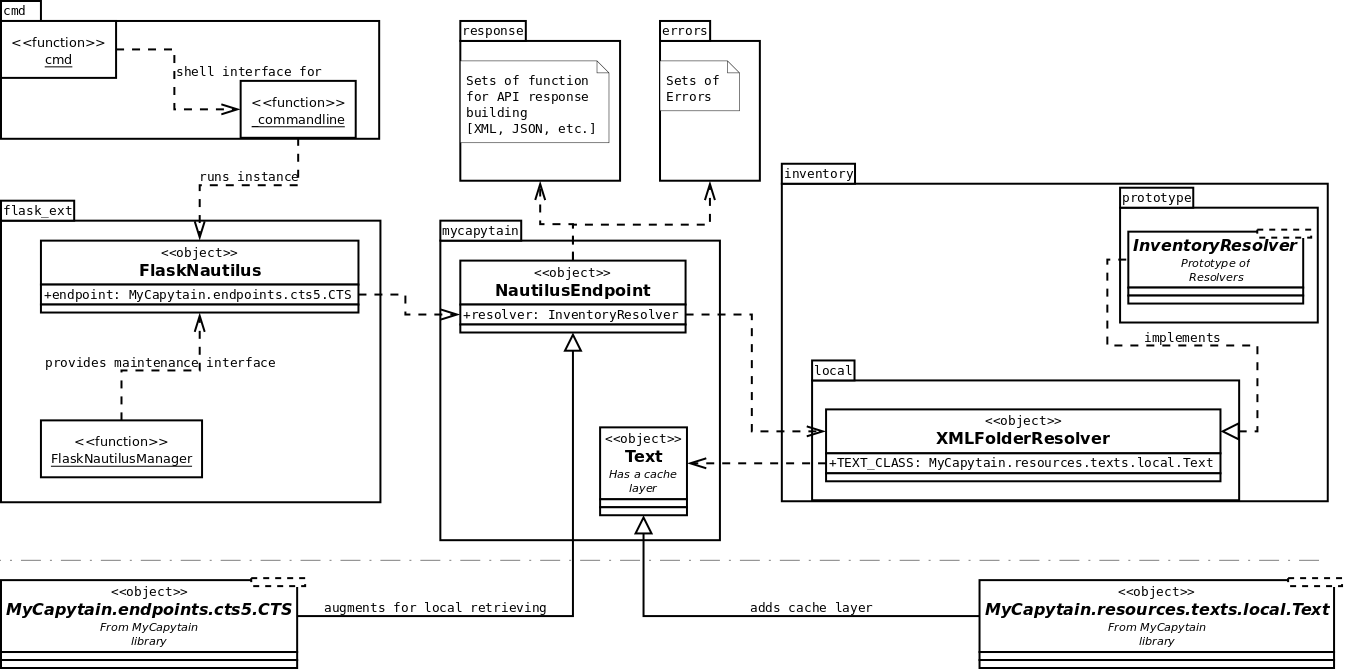
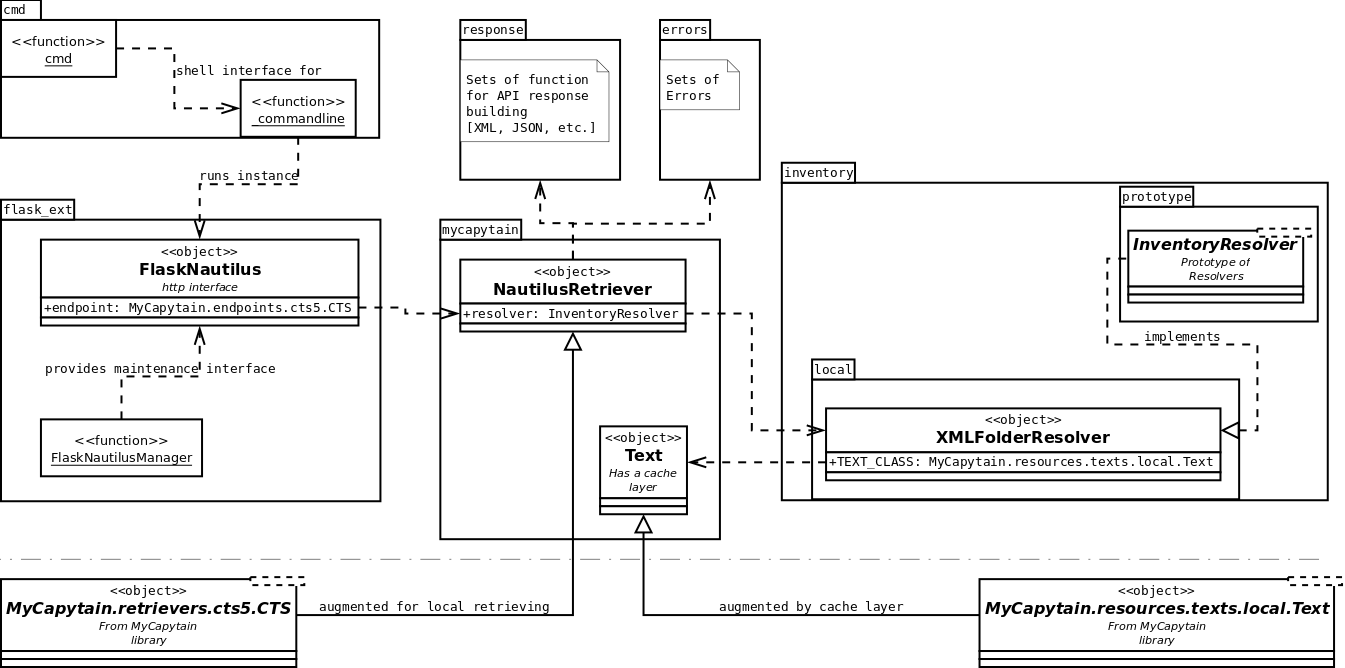
More documentation

diff --git a/doc/Nautilus.API.rst b/doc/Nautilus.API.rst
@@ -4,28 +4,64 @@ Capitains Nautilus API Documentation
 Library Structure
 #################
 
+.. image:: assets/api_architecture.png
+   :alt: Library Software Architecture
+   :align: center
 
-Utilities, metadata and references
-##################################
+Resolvers
+#########
 
-Module common contains tools such as a namespace dictionary as well as cross-implementation objects, like URN, Citations...
+Resolver provides a system to retrieve a text file and an inventory from local resources for example.
 
-URN, References and Citations
-*****************************
+CapiTainS formatted reposotory
+******************************
 
-.. autoclass:: capitains_nautilus.common.reference.URN
-.. autoclass:: capitains_nautilus.common.reference.Reference
+.. autoclass:: capitains_nautilus.inventory.local.XMLFolderResolver
 
-.. autoclass:: capitains_nautilus.common.reference.Citation
-    :members: fill, __iter__, __len__
+Prototype
+*********
 
-Metadata containters
-********************
+.. autoclass:: capitains_nautilus.inventory.proto.InventoryResolver
 
-.. automodule:: capitains_nautilus.common.metadata
+Retriever
+#########
+
+Extension of MyCapytains resources
+**********************************
+
+.. automodule:: capitains_nautilus.mycapytain
+    :members:
+    :undoc-members:
+    :show-inheritance:
+
+Responses builders
+******************
+
+.. automodule:: capitains_nautilus.errors
+    :members:
+    :undoc-members:
+    :show-inheritance:
+
+Errors
+######
+
+.. automodule:: capitains_nautilus.errors
     :members:
     :undoc-members:
     :show-inheritance:
 
 Utilities
 #########
+
+.. automodule:: capitains_nautilus.cmd
+    :members:
+    :undoc-members:
+    :show-inheritance:
+
+Flask Extension
+#########
+
+.. automodule:: capitains_nautilus.flask_ext
+    :members:
+    :undoc-members:
+    :show-inheritance:

diff --git a/doc/Nautilus.production.rst b/doc/Nautilus.production.rst
@@ -6,7 +6,7 @@ Environment
 
 We recommend highly to use Debian based configuration as they are the only one having been tested for now. The following configuration takes into account what we think might be the best configuration available with a good cache system.
 
-You can use a docker image we built and fork it for your own use. As of *April 11th, 2016*, the **docker image does not use Redis-based cache** but filesystem based cache.
+You can use a `docker image <https://github.com/Capitains/docker-debian-capitains>`_ we built and fork it for your own use. As of *April 11th, 2016*, the **docker image does not use Redis-based cache** but filesystem based cache.
 
 The environment we propose contains a flask.ext.nemo instance, for control purposes. Disabling it is documented.
 
